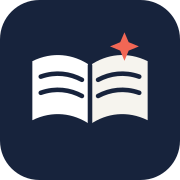
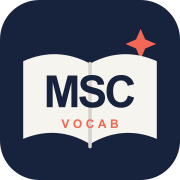
16

Changed region(s): [[0.1111, 0.1667, 0.8889, 0.8333]]

diff --git a/app/page.tsx b/app/page.tsx
@@ -55,7 +55,8 @@ function getGreeting() {
   return "สวัสดีตอนเย็น";
 }
 
-const WORD_CACHE_PREFIX = "lexiflow:words:";
+const WORD_CACHE_PREFIX = "msc-vocab:words:";
+const LEGACY_WORD_CACHE_PREFIX = "lexiflow:words:";
 
 function selectDueWords(words: Word[]) {
   const now = Date.now();
@@ -66,7 +67,9 @@ function selectDueWords(words: Word[]) {
 
 function readWordCache(identity: string) {
   try {
-    const raw = window.localStorage.getItem(`${WORD_CACHE_PREFIX}${encodeURIComponent(identity)}`);
+    const cacheKey = encodeURIComponent(identity);
+    const raw = window.localStorage.getItem(`${WORD_CACHE_PREFIX}${cacheKey}`)
+      ?? window.localStorage.getItem(`${LEGACY_WORD_CACHE_PREFIX}${cacheKey}`);
     if (!raw) return null;
     const parsed = JSON.parse(raw) as { words?: Word[] };
     if (!Array.isArray(parsed.words)) return null;
@@ -190,7 +193,7 @@ function VoiceButton({ text, lang, label }: { text: string; lang: "en-US" | "th-
 
 function AuthGate({ loading }: { loading?: boolean }) {
   const googleReady = process.env.NEXT_PUBLIC_GOOGLE_OAUTH_ENABLED === "true";
-  return <main className="grid min-h-screen place-items-center px-5 py-10"><section className="w-full max-w-md rounded-[32px] border border-ink/10 bg-white p-8 text-center shadow-soft sm:p-10"><div className="mx-auto grid h-16 w-16 place-items-center rounded-3xl bg-ink text-white"><Sparkles size={26} /></div><p className="mt-7 text-xs font-bold uppercase tracking-[0.2em] text-coral">private vocabulary lab</p><h1 className="mt-3 font-display text-4xl font-bold tracking-[-0.04em]">เข้าสู่ LexiFlow</h1><p className="mt-4 text-sm leading-7 text-ink/50">คลังคำศัพท์ของคุณจะถูกแยกตามบัญชี Google แต่ละคนจะเห็นและจัดการคำศัพท์ของตัวเองเท่านั้น</p><button disabled={loading || !googleReady} onClick={() => void signIn("google", { callbackUrl: "/" })} className="mt-8 flex w-full items-center justify-center gap-3 rounded-2xl bg-ink px-5 py-4 text-sm font-bold text-white transition hover:bg-coral disabled:cursor-not-allowed disabled:opacity-40"><LogIn size={17} />{loading ? "กำลังตรวจสอบ session…" : "เข้าสู่ระบบด้วย Google"}</button>{!googleReady && <p className="mt-5 rounded-2xl bg-sand px-4 py-3 text-left text-xs leading-5 text-ink/60">ยังไม่ได้เปิด Google OAuth: ใส่ `GOOGLE_CLIENT_ID`, `GOOGLE_CLIENT_SECRET` และตั้ง `NEXT_PUBLIC_GOOGLE_OAUTH_ENABLED=true` ใน `.env` แล้ว restart server</p>}</section></main>;
+  return <main className="grid min-h-screen place-items-center px-5 py-10"><section className="w-full max-w-md rounded-[32px] border border-ink/10 bg-white p-8 text-center shadow-soft sm:p-10"><div className="mx-auto grid h-16 w-16 place-items-center rounded-3xl bg-ink text-white"><Sparkles size={26} /></div><p className="mt-7 text-xs font-bold uppercase tracking-[0.2em] text-coral">msc vocabulary</p><h1 className="mt-3 font-display text-4xl font-bold tracking-[-0.04em]">เข้าสู่ MSC Vocab</h1><p className="mt-4 text-sm leading-7 text-ink/50">คลังคำศัพท์ของคุณจะถูกแยกตามบัญชี Google แต่ละคนจะเห็นและจัดการคำศัพท์ของตัวเองเท่านั้น</p><button disabled={loading || !googleReady} onClick={() => void signIn("google", { callbackUrl: "/" })} className="mt-8 flex w-full items-center justify-center gap-3 rounded-2xl bg-ink px-5 py-4 text-sm font-bold text-white transition hover:bg-coral disabled:cursor-not-allowed disabled:opacity-40"><LogIn size={17} />{loading ? "กำลังตรวจสอบ session…" : "เข้าสู่ระบบด้วย Google"}</button>{!googleReady && <p className="mt-5 rounded-2xl bg-sand px-4 py-3 text-left text-xs leading-5 text-ink/60">ยังไม่ได้เปิด Google OAuth: ใส่ `GOOGLE_CLIENT_ID`, `GOOGLE_CLIENT_SECRET` และตั้ง `NEXT_PUBLIC_GOOGLE_OAUTH_ENABLED=true` ใน `.env` แล้ว restart server</p>}</section></main>;
 }
 
 export default function HomePage() {
@@ -323,7 +326,7 @@ export default function HomePage() {
           <div className="flex items-center justify-between px-2">
             <button className="flex items-center gap-3" onClick={() => navigate("dashboard")} aria-label="ไปหน้าแรก">
               <span className="grid h-10 w-10 place-items-center rounded-2xl bg-ink text-white shadow-card"><Sparkles size={18} /></span>
-              <span className="text-left"><span className="block font-display text-xl font-bold tracking-tight">LexiFlow</span><span className="block text-[10px] font-semibold uppercase tracking-[0.22em] text-ink/40">vocabulary lab</span></span>
+              <span className="text-left"><span className="block font-display text-xl font-bold tracking-tight">MSC Vocab</span><span className="block text-[10px] font-semibold uppercase tracking-[0.22em] text-ink/40">english vocabulary</span></span>
             </button>
             <button className="rounded-lg p-2 text-ink/50 lg:hidden" onClick={() => setSidebarOpen(false)} aria-label="ปิดเมนู"><X size={18} /></button>
           </div>

diff --git a/app/layout.tsx b/app/layout.tsx
@@ -4,11 +4,11 @@ import { PWARegister } from "@/components/pwa-register";
 import "./globals.css";
 
 export const metadata: Metadata = {
-  title: "LexiFlow — ฝึกศัพท์อังกฤษให้จำได้จริง",
+  title: "MSC Vocab — ฝึกศัพท์อังกฤษให้จำได้จริง",
   description: "นำเข้าคำศัพท์ ทบทวนแบบ spaced repetition และฝึกควิซในที่เดียว",
-  applicationName: "LexiFlow",
+  applicationName: "MSC Vocab",
   manifest: "/manifest.webmanifest",
-  appleWebApp: { capable: true, title: "LexiFlow", statusBarStyle: "black-translucent" },
+  appleWebApp: { capable: true, title: "MSC Vocab", statusBarStyle: "black-translucent" },
   icons: {
     icon: [{ url: "/icon-192.png", sizes: "192x192", type: "image/png" }, { url: "/icon-512.png", sizes: "512x512", type: "image/png" }],
     apple: [{ url: "/apple-touch-icon.png", sizes: "180x180", type: "image/png" }]

diff --git a/components/pwa-register.tsx b/components/pwa-register.tsx
@@ -66,7 +66,7 @@ export function PWAInstallButton() {
 
   if (!installPrompt && !showAppleGuide) return null;
   return (
-    <button type="button" onClick={() => void install()} className="flex items-center gap-1.5 rounded-xl border border-ink/10 bg-white px-3 py-2 text-xs font-bold text-ink/60 transition hover:border-coral/40 hover:text-coral" aria-label="ติดตั้ง LexiFlow">
+    <button type="button" onClick={() => void install()} className="flex items-center gap-1.5 rounded-xl border border-ink/10 bg-white px-3 py-2 text-xs font-bold text-ink/60 transition hover:border-coral/40 hover:text-coral" aria-label="ติดตั้ง MSC Vocab">
       <Download size={14} /> <span className="hidden md:inline">ติดตั้งแอป</span>
     </button>
   );

diff --git a/public/sw.js b/public/sw.js
@@ -1,4 +1,4 @@
-const CACHE_NAME = "lexiflow-shell-v1";
+const CACHE_NAME = "msc-vocab-shell-v2";
 const OFFLINE_URL = "/offline";
 
 self.addEventListener("install", (event) => {
@@ -12,7 +12,7 @@ self.addEventListener("install", (event) => {
 self.addEventListener("activate", (event) => {
   event.waitUntil(
     caches.keys()
-      .then((keys) => Promise.all(keys.filter((key) => key.startsWith("lexiflow-") && key !== CACHE_NAME).map((key) => caches.delete(key))))
+      .then((keys) => Promise.all(keys.filter((key) => (key.startsWith("lexiflow-") || key.startsWith("msc-vocab-")) && key !== CACHE_NAME).map((key) => caches.delete(key))))
       .then(() => self.clients.claim())
   );
 });

diff --git a/app/manifest.ts b/app/manifest.ts
@@ -3,8 +3,8 @@ import type { MetadataRoute } from "next";
 export default function manifest(): MetadataRoute.Manifest {
   return {
     id: "/",
-    name: "LexiFlow — ฝึกศัพท์อังกฤษให้จำได้จริง",
-    short_name: "LexiFlow",
+    name: "MSC Vocab — ฝึกศัพท์อังกฤษให้จำได้จริง",
+    short_name: "MSC Vocab",
     description: "คลังคำศัพท์ส่วนตัว พร้อมทบทวนและฝึกควิซ",
     start_url: "/",
     scope: "/",

diff --git a/README.md b/README.md
@@ -1,4 +1,4 @@
-# LexiFlow
+# MSC Vocab
 
 แอป Next.js + Tailwind + PostgreSQL สำหรับเรียนรู้คำศัพท์อังกฤษด้วยการนำเข้า, ทบทวนแบบ spaced repetition และควิซ
 
